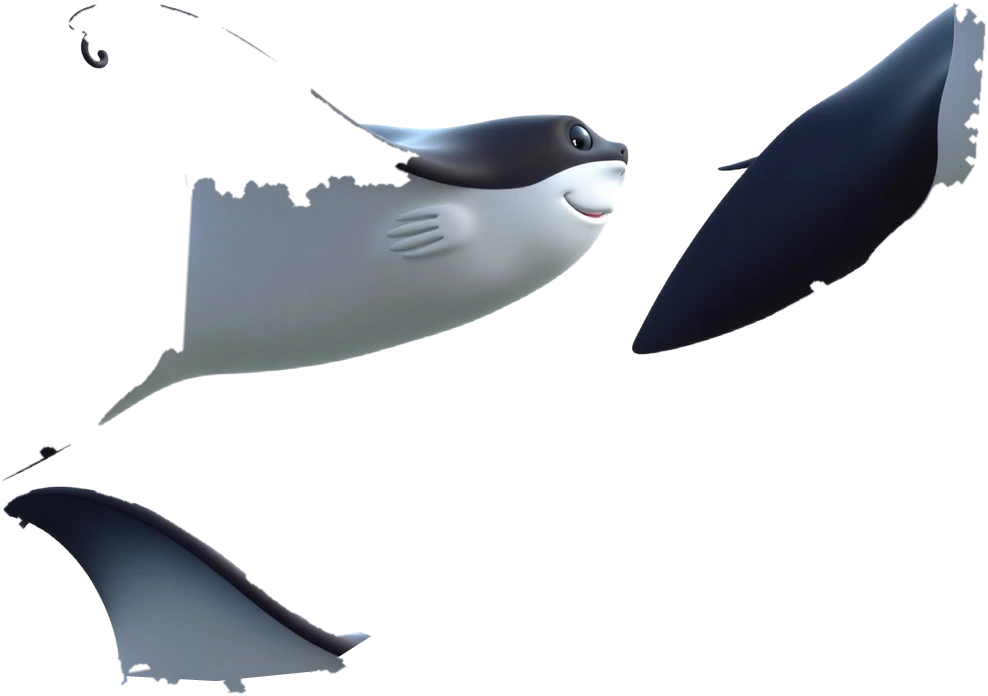
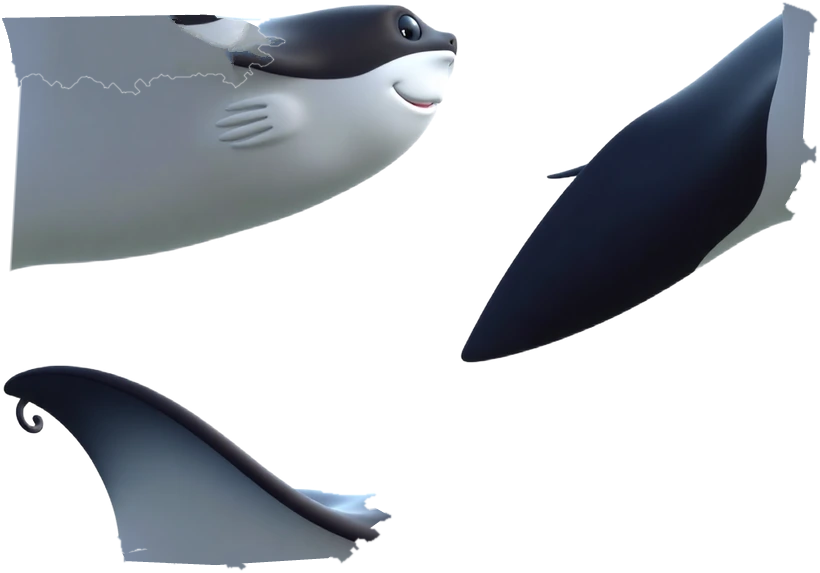
Manta wings beat: slow up-and-down strokes in the picture plane, bending root to tip so the tips lag
User: the manta glides stiffly. The flap role moved its wings out of the picture plane (only
foreshortening a side view); it now sweeps 0.34 rad in the plane with a strong bend along the
wing, at about 0.4 Hz, keeping most of the beat while gliding. The far wing beats half a cycle
apart, so both tips rise together; the wing cards now take their whole outline, and the body
under the near wing is filled.

diff --git a/game/rig/cards.js b/game/rig/cards.js
@@ -55,7 +55,10 @@ export const ROLES = {
     fan:       { swing: 0.05, sweep: 0.02, wave: 0.06, k: 3.0, speed: 0.9, idle: 0.25 },
     tentacles: { swing: 0.05, sweep: 0.03, wave: 0.14, k: 3.4, speed: 0.9, idle: 0.5 },
     curl:      { swing: 0.03, sweep: 0.04, wave: 0.1, k: 2.0, speed: 0.7, idle: 0.3 },
-    flap:      { swing: 0.42, sweep: 0.04, wave: 0.16, k: 1.4, speed: 0.6, idle: 0.35 }   // ray wings: slow, wide beats up and down
+    // Ray wings seen from the side beat up and down in the picture plane (sweep), bending from root to
+    // tip so the tips lag (wave); a manta glides at a steady effort, so most of the beat stays when idle
+    // (user: the manta glides stiffly; about 0.4 Hz at its effort).
+    flap:      { swing: 0.12, sweep: 0.34, wave: 0.26, k: 1.1, speed: 0.32, idle: 0.85 }
 };
 
 /** Triangle strip over a (cols x rows)-cell grid (rows joined by degenerate triangles): node index per strip vertex. */
